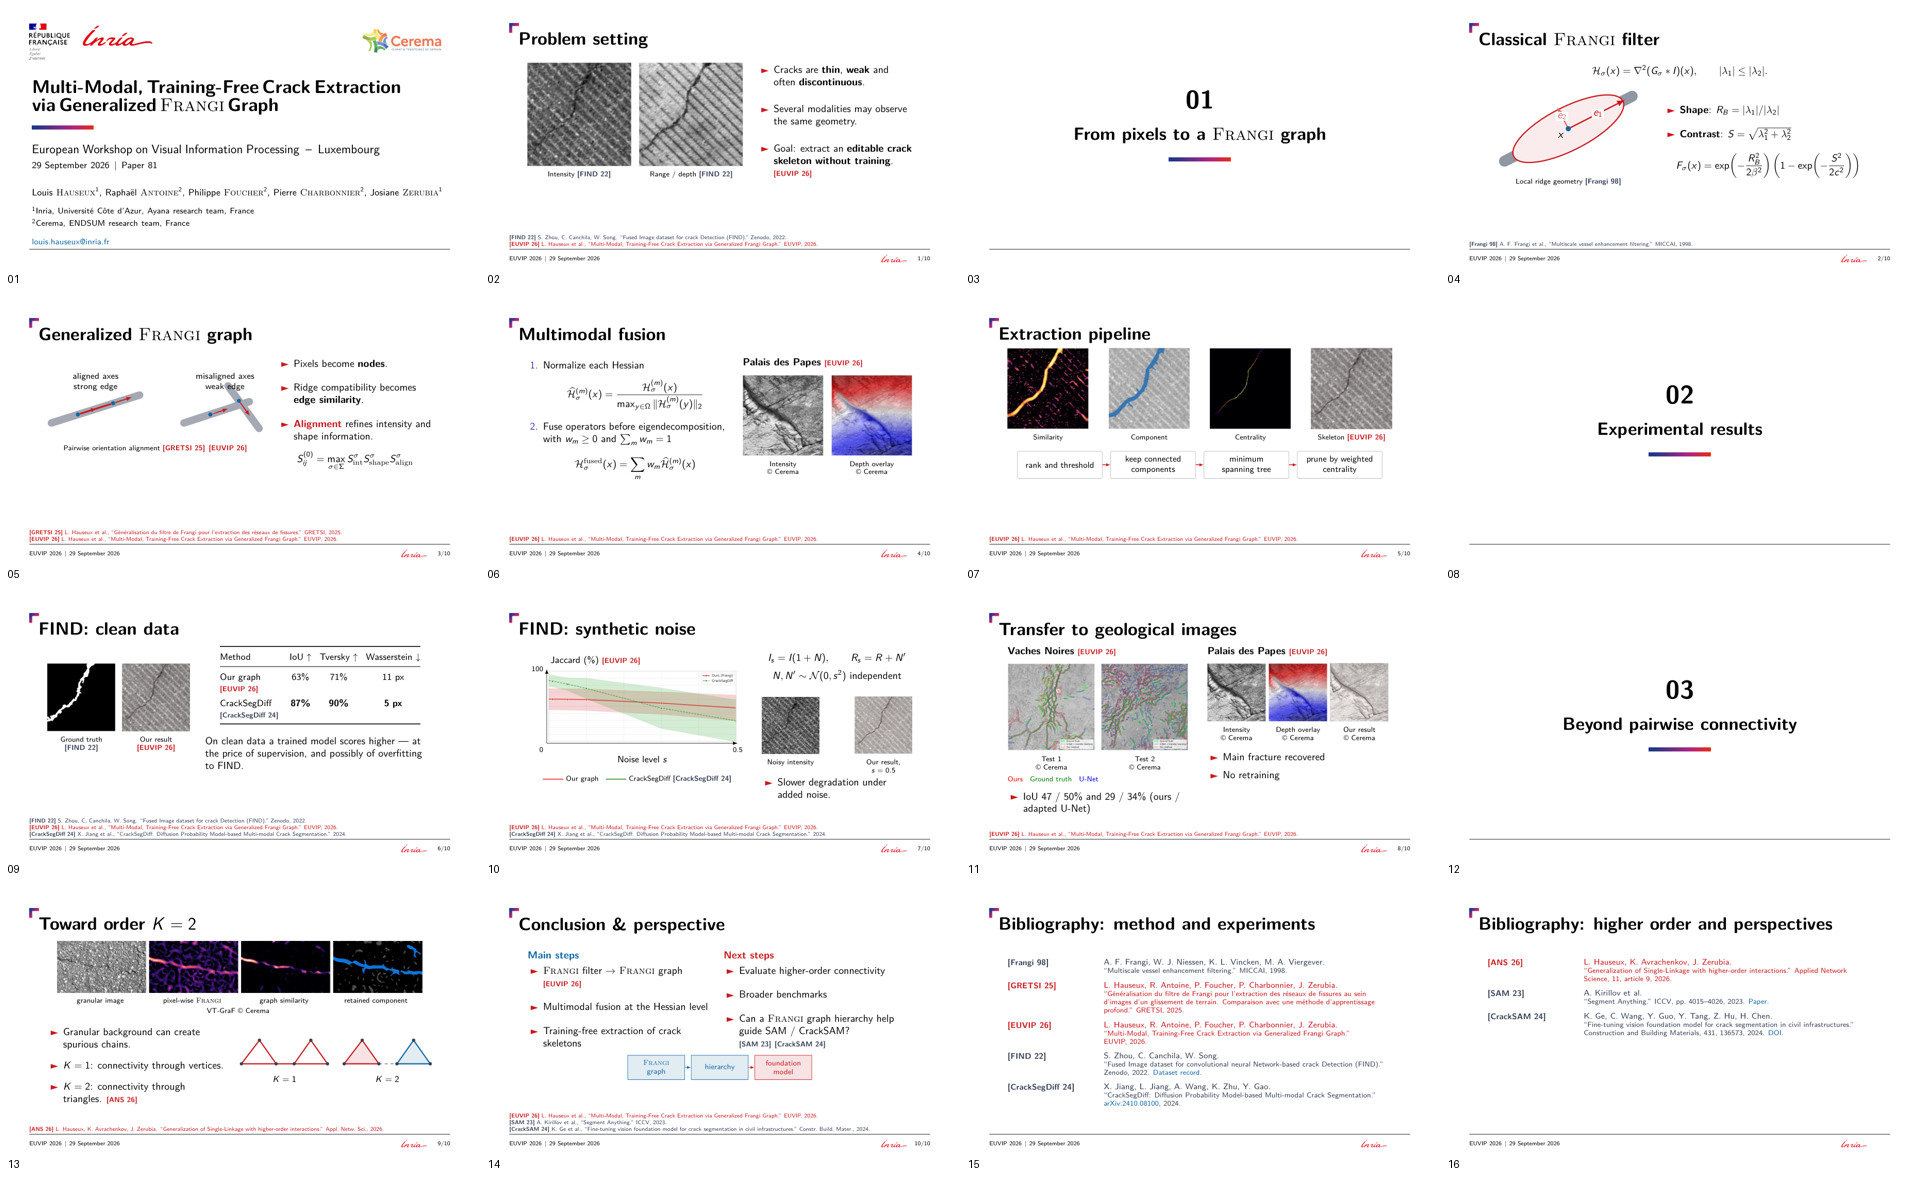
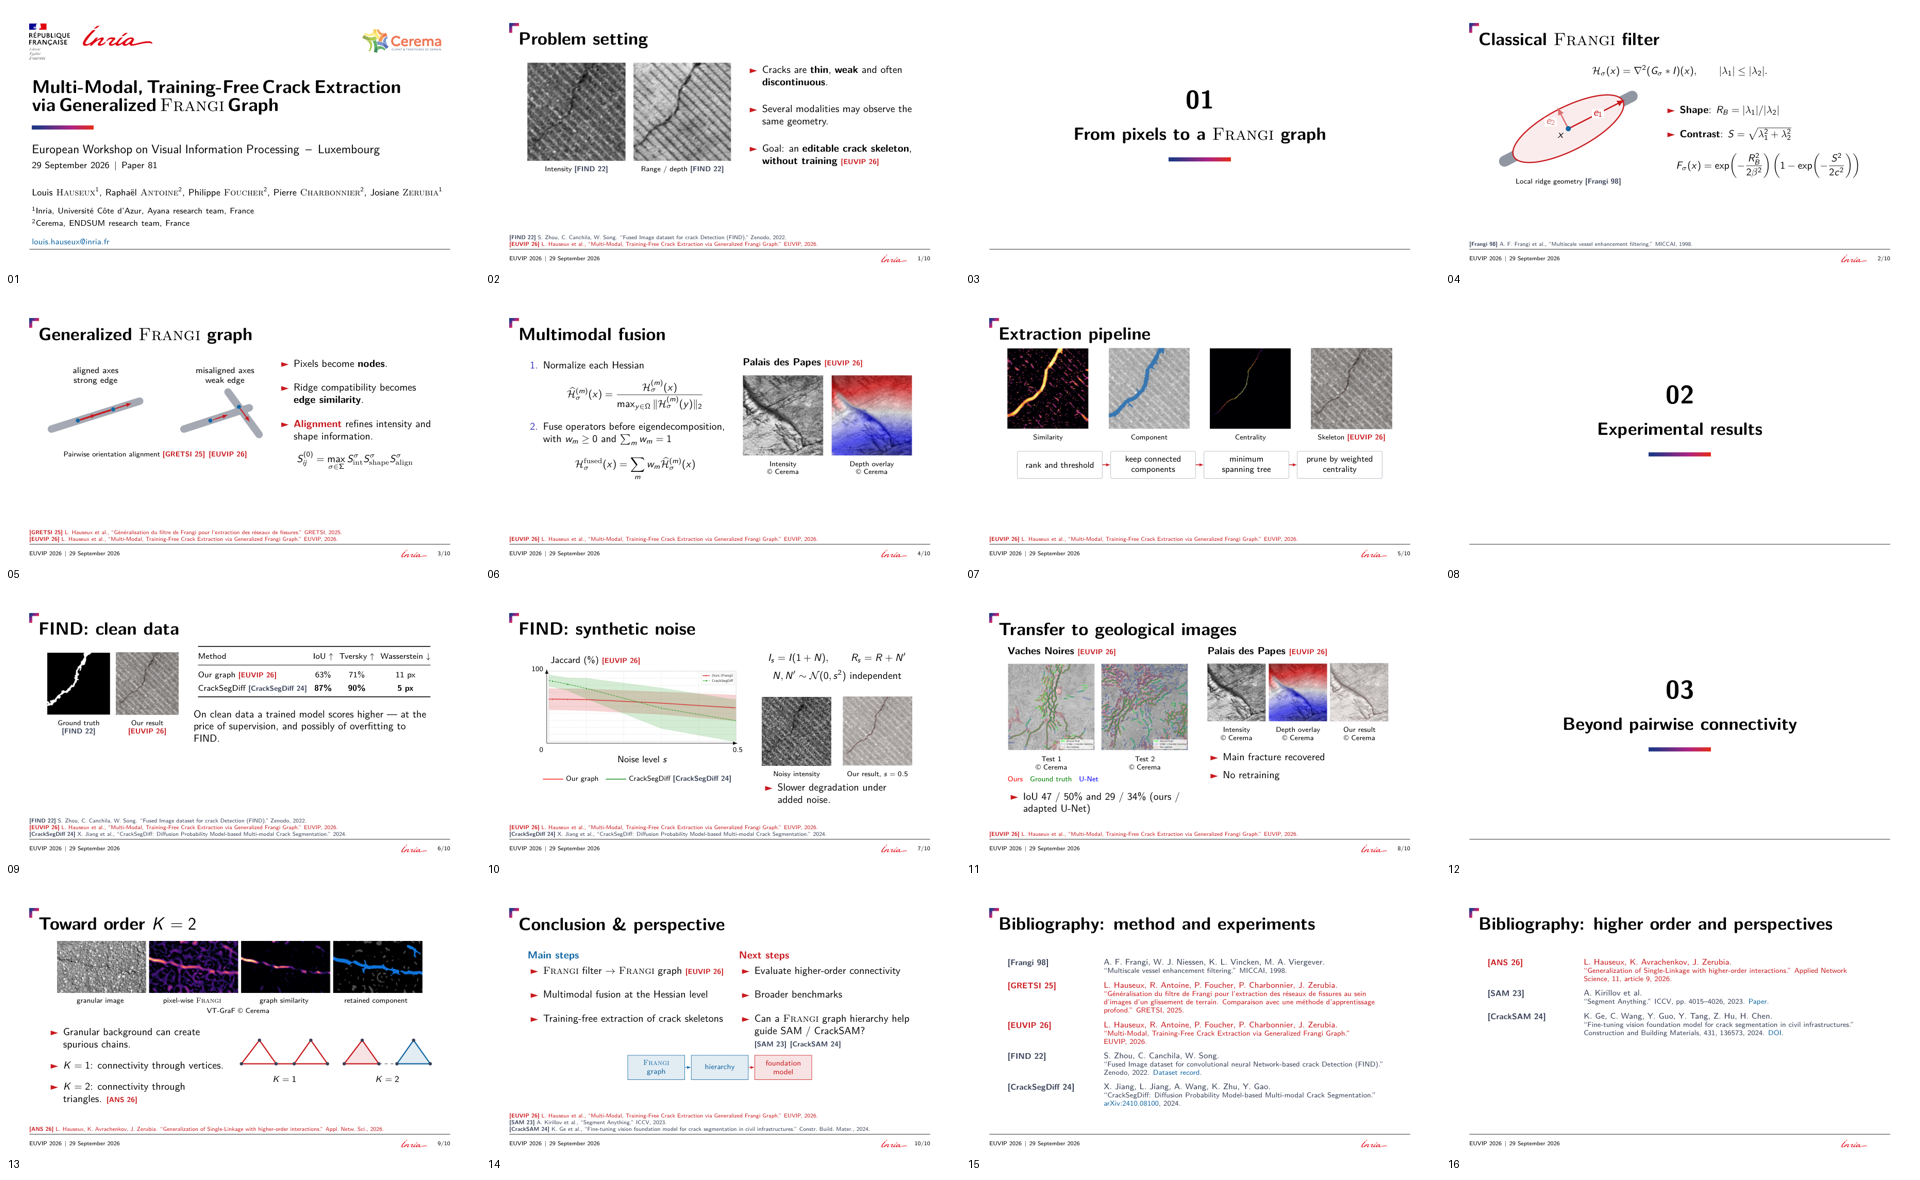
Fix five layout defects found while reviewing the rebuilt slides
- Problem setting: the citation was dropping to a line of its own under the
  third bullet; the column split is rebalanced and the bullet shortened so it
  stays on the bullet's last line.
- Classical Frangi filter: the e2 label box sat on the e2 arrow and cut its
  shaft in two, leaving the arrowhead detached; the label moves beside it.
- Generalized Frangi graph: the grey ridge ran through the words "weak edge";
  both diagram captions move above the ridges.
- FIND clean data: each citation label was wrapping onto an orphan line inside
  the Method cell; the table is footnotesize with a plain left column, so each
  row is a single line again.
- FIND synthetic noise: the two noisy panels were drifting 12 mm apart and the
  right caption wrapped; both panels widen to close the gap.

Claude-Session: https://claude.ai/code/session_01HywY2uN8ZXYj75Jewa2rSu

diff --git a/EUVIP/presentation/main.tex b/EUVIP/presentation/main.tex
@@ -58,15 +58,15 @@
 \begin{frame}[t]{Problem setting}
 \vspace{1mm}
 \begin{columns}[T,onlytextwidth]
- \begin{column}{.56\textwidth}
+ \begin{column}{.53\textwidth}
   \panel{.48}{Intensity_1FIND.png}{Intensity \citb{find22}}\hfill
   \panel{.48}{Range_1FIND.png}{Range / depth \citb{find22}}
  \end{column}
- \begin{column}{.40\textwidth}
+ \begin{column}{.43\textwidth}
   \begin{itemize}\setlength\itemsep{5mm}
    \item Cracks are \textbf{thin}, \textbf{weak} and often \textbf{discontinuous}.
    \item Several modalities may observe the same geometry.
-   \item Goal: extract an \textbf{editable crack skeleton} \textbf{without training}. \citb{euvip26}
+   \item Goal: an \textbf{editable crack skeleton}, \textbf{without training} \citb{euvip26}
   \end{itemize}
  \end{column}
 \end{columns}
@@ -93,7 +93,7 @@
   \draw[vec,inria-rouge](0,0)--(1.833,0);
   \draw[vec,inria-rouge!62](0,0)--(0,.703);
   \node[font=\small,inria-rouge,fill=white,inner sep=1pt]at(.95,0){$e_1$};
-  \node[font=\small,inria-rouge!62,fill=white,inner sep=1pt]at(0,.4){$e_2$};
+  \node[font=\small,inria-rouge!62,fill=white,inner sep=1pt]at(-.36,.40){$e_2$};
  \end{scope}
  \fill[inria-2024-bleu-canard](0,0)circle(2.1pt);
  \node[below left,font=\small]at(0,0){$x$};
@@ -128,13 +128,13 @@ F_\sigma(x)=\exp\!\left(-\frac{R_B^2}{2\beta^2}\right)
  \node[pix](i1)at(.72,-.02){};\node[pix](j1)at(1.88,.35){};
  \draw[dir,inria-rouge](i1)--++(.62,.2);\draw[dir,inria-rouge](j1)--++(.62,.2);
  \draw[inria-rouge,line width=1.6pt](i1)--(j1);
- \node[font=\footnotesize,align=center]at(1.3,1.05){aligned axes\\strong edge};
+ \node[font=\footnotesize,align=center]at(1.3,1.45){aligned axes\\strong edge};
  \begin{scope}[shift={(4.35,0)}]
   \draw[ridge](-.15,-.3)--(2,.4);\draw[ridge](1.3,.92)--(2.32,-.48);
   \node[pix](i2)at(.72,-.02){};\node[pix](j2)at(1.66,.43){};
   \draw[dir,inria-rouge](i2)--++(.59,.19);\draw[dir,inria-rouge](j2)--++(.36,-.5);
   \draw[gris_fonce_inria!45,line width=.8pt](i2)--(j2);
-  \node[font=\footnotesize,align=center]at(1.2,1.05){misaligned axes\\weak edge};
+  \node[font=\footnotesize,align=center]at(1.2,1.45){misaligned axes\\weak edge};
  \end{scope}
 \end{tikzpicture}}
 \par\vspace{2mm}{\scriptsize Pairwise orientation alignment \citb{gretsi25}\enspace\citb{euvip26}}
@@ -207,13 +207,13 @@ S^\sigma_{\mathrm{int}}S^\sigma_{\mathrm{shape}}S^\sigma_{\mathrm{align}}
 \begin{frame}[t]{FIND: clean data}
 \vspace{1mm}
 \begin{columns}[c,onlytextwidth]
-\begin{column}{.37\textwidth}\centering
+\begin{column}{.34\textwidth}\centering
  \panel{.475}{GroundTruth_1FIND.png}{Ground truth\\\citb{find22}}\hfill
  \panel{.475}{Resultat_1FIND.png}{Our result\\\citb{euvip26}}
 \end{column}
-\begin{column}{.59\textwidth}\centering
-{\small\setlength{\tabcolsep}{4pt}\renewcommand{\arraystretch}{1.3}
-\begin{tabular}{@{}>{\raggedright\arraybackslash}p{2.1cm}ccc@{}}\toprule
+\begin{column}{.62\textwidth}\centering
+{\footnotesize\setlength{\tabcolsep}{3pt}\renewcommand{\arraystretch}{1.35}
+\begin{tabular}{@{}lccc@{}}\toprule
 Method & IoU $\uparrow$ & Tversky $\uparrow$ & Wasserstein $\downarrow$\\\midrule
 Our graph \citb{euvip26} & 63\% & 71\% & 11 px\\
 CrackSegDiff \citb{cracksegdiff24} & \textbf{87\%} & \textbf{90\%} & \textbf{5 px}\\\bottomrule
@@ -256,8 +256,8 @@ N,N'\sim\mathcal N(0,s^2)\ \text{independent}
 \end{gather*}
 \vspace{-2mm}
 
-\panel{.38}{IntensityNoisy_1FIND.png}{Noisy intensity}\hfill
-\panel{.38}{ResultatNoisy_1FIND.png}{Our result, $s=0.5$}
+\panel{.46}{IntensityNoisy_1FIND.png}{Noisy intensity}\hfill
+\panel{.46}{ResultatNoisy_1FIND.png}{Our result, $s=0.5$}
 \par\vspace{.5mm}
 \begin{itemize}
  \item Slower degradation under added noise.
@@ -351,7 +351,7 @@ N,N'\sim\mathcal N(0,s^2)\ \text{independent}
 \begin{frame}[t]{Conclusion \& perspective}
 \vspace{2mm}
 \begin{columns}[T,onlytextwidth]
-\begin{column}{.47\textwidth}
+\begin{column}{.51\textwidth}
 \textcolor{inria-2024-bleu-canard}{\textbf{Main steps}}
 \begin{itemize}\setlength\itemsep{4mm}
  \item \Frangi{} filter $\rightarrow$ \Frangi{} graph \citb{euvip26}
@@ -359,7 +359,7 @@ N,N'\sim\mathcal N(0,s^2)\ \text{independent}
  \item Training-free extraction of crack skeletons
 \end{itemize}
 \end{column}
-\begin{column}{.49\textwidth}
+\begin{column}{.45\textwidth}
 \textcolor{inria-rouge}{\textbf{Next steps}}
 \begin{itemize}\setlength\itemsep{4mm}
  \item Evaluate higher-order connectivity
